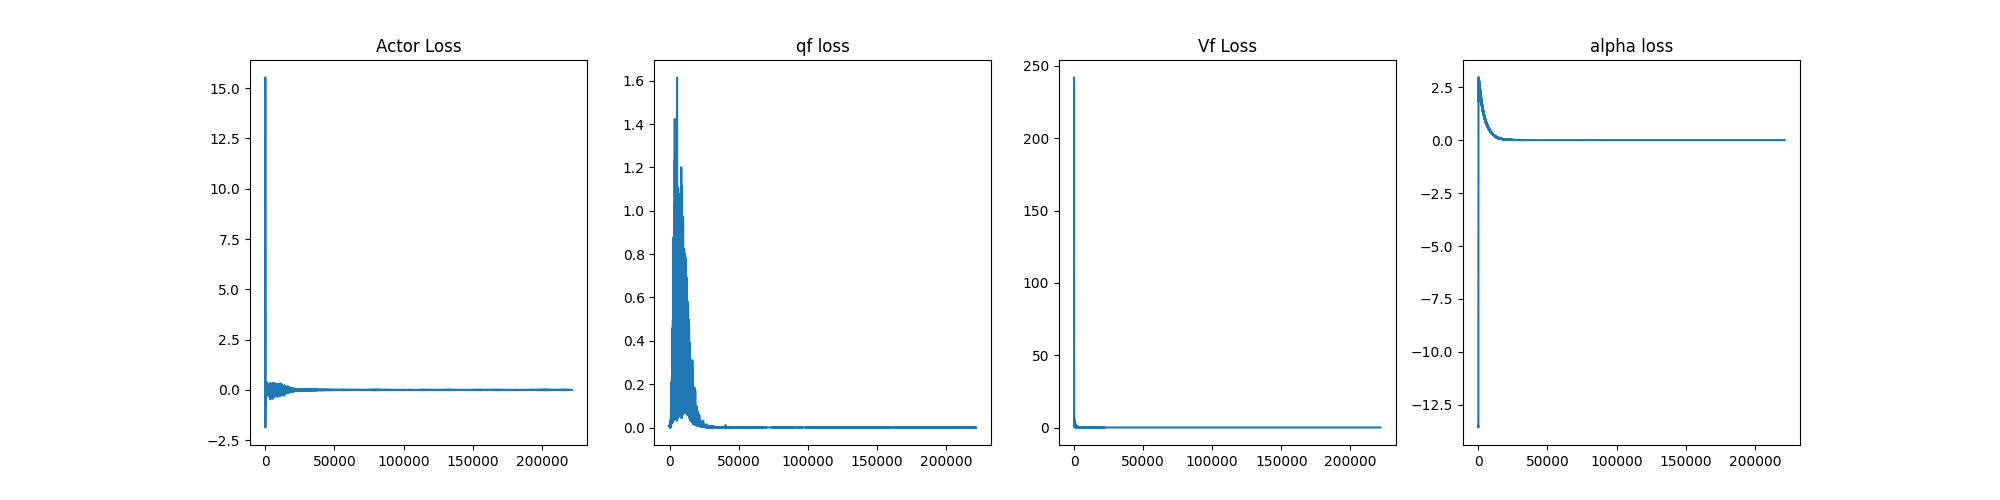
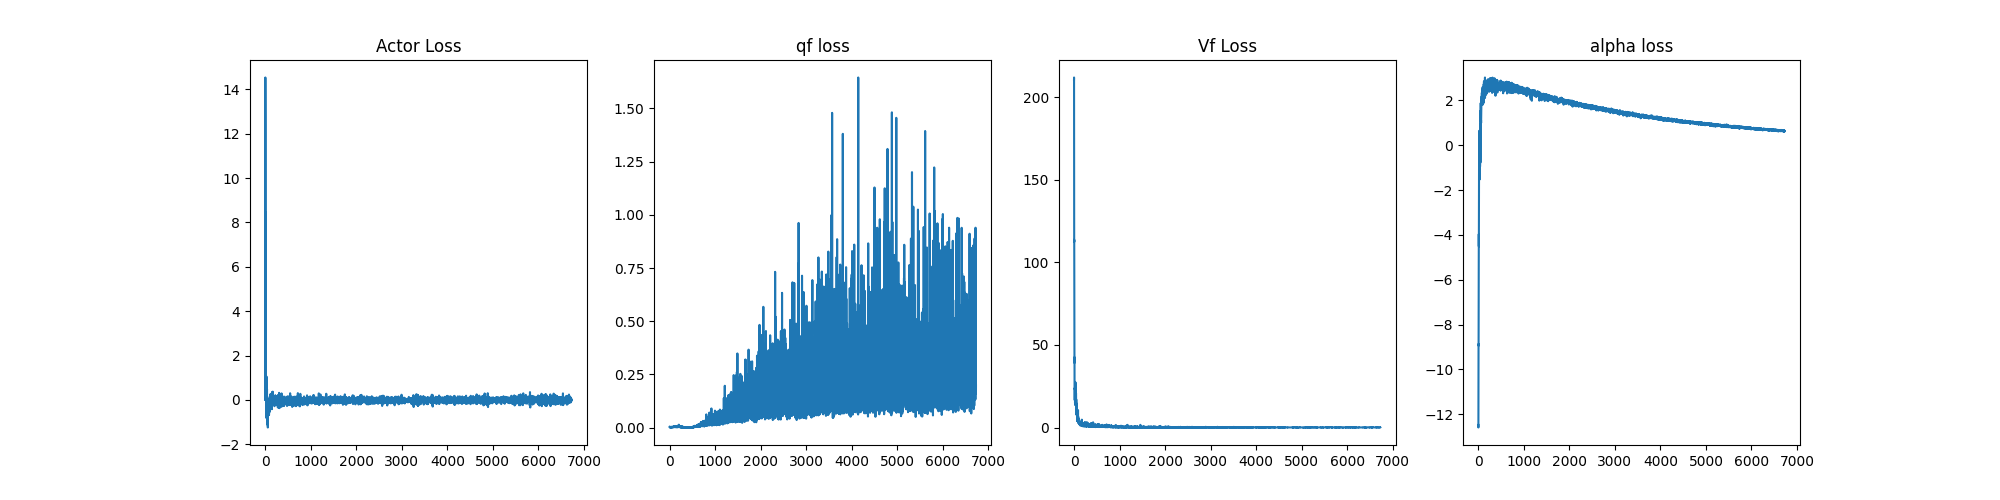
updated report

diff --git a/main.py b/main.py
@@ -51,7 +51,7 @@ def ma_main():
     np.random.seed(seed)
     seed_torch(seed)
 
-    num_episode = 1500
+    num_episode = 1000
     memory_size = 10000
     batch_size = 64
 

diff --git a/Navigation/report.md b/Navigation/report.md
@@ -16,7 +16,7 @@ The model was trained with an adam optimizer using a learning rate of 5e-5 and a
 
 |  Name | Data Type  | Use  | Value |
 |:------:|:-----------:|:-----:|:------:|
-| Buffer size  |  int |  configuration for maximum capacity of the replay buffer |34|
+| Buffer size  |  int |  configuration for maximum capacity of the replay buffer |10000|
 | Learning rate  | float  |  model learing rate | 5e-5|
 |  Target update | int  | Controls the frequency of updating the target network | 4|
 | Epsilon Decay | float | This determines how the epsilon decreases during training| 0.9 |
